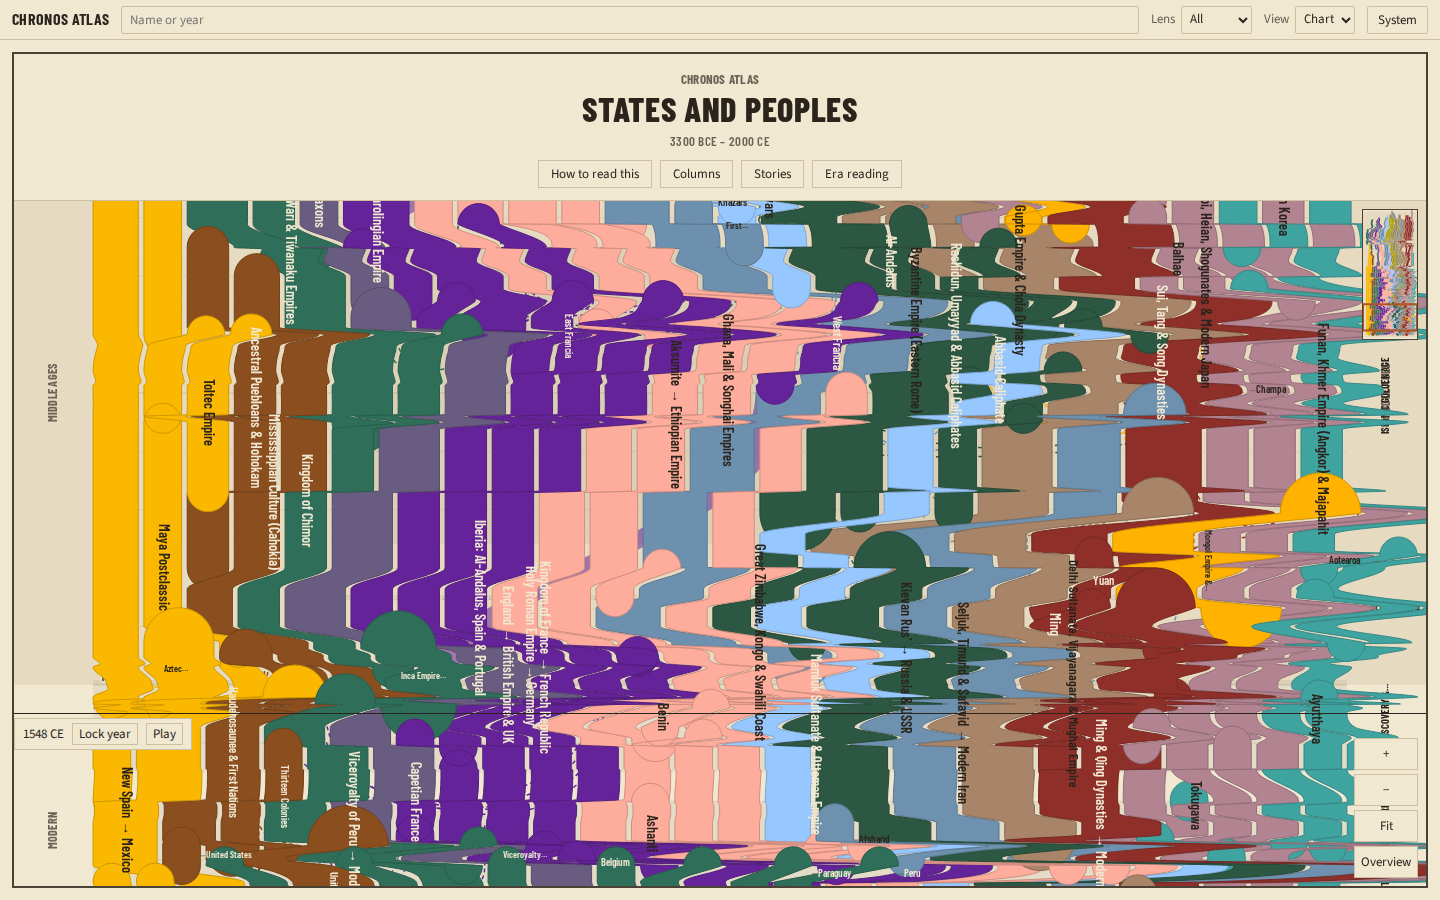
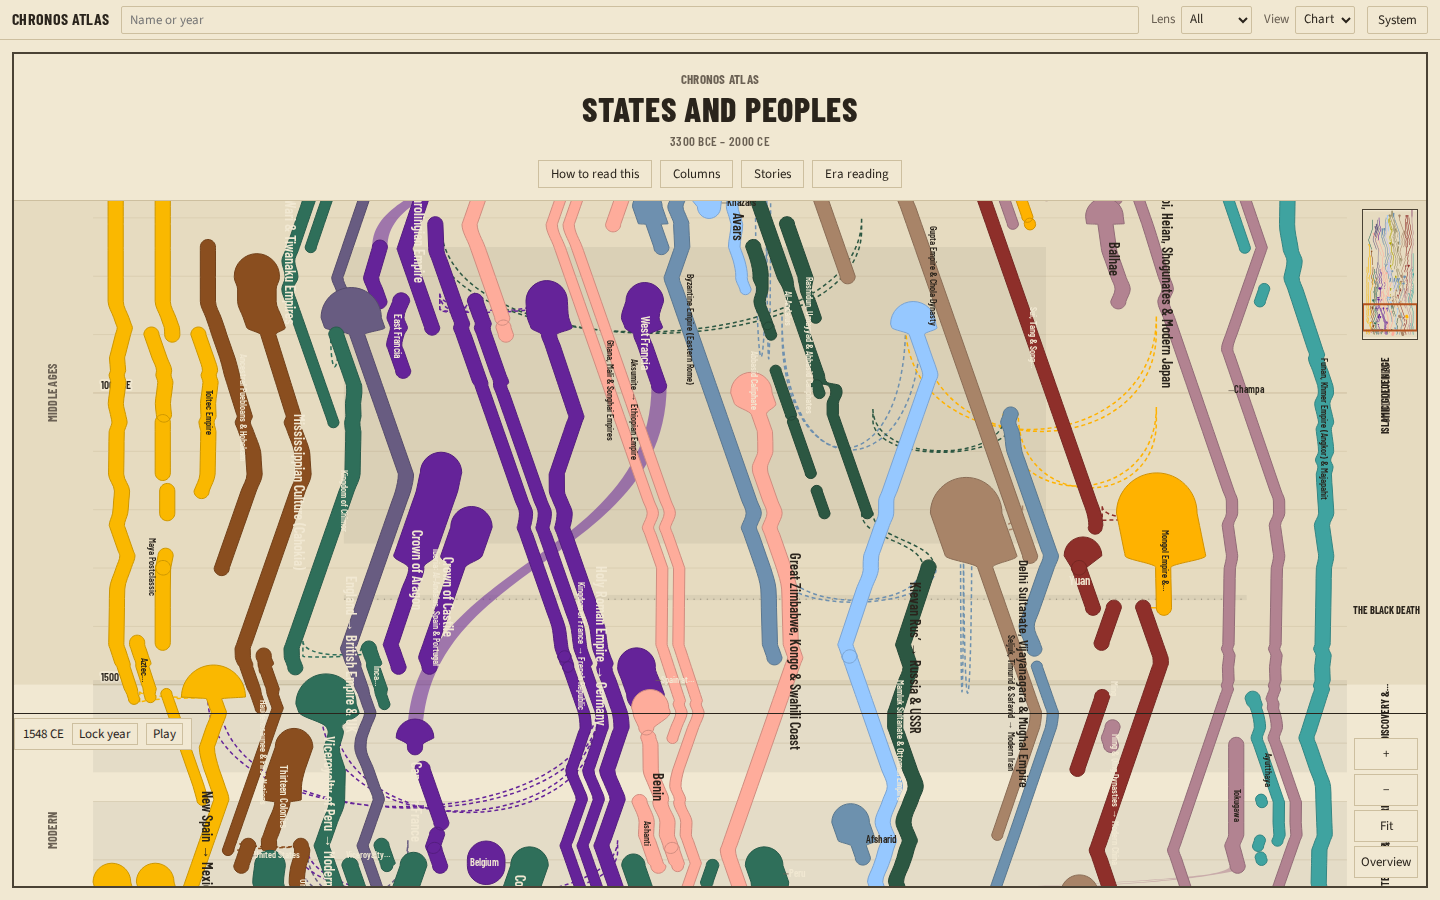
Review: score the layout pass at 5 of 10

diff --git a/docs/reviews/layout-pass.md b/docs/reviews/layout-pass.md
@@ -1,0 +1,41 @@
+# Layout pass — Appendix D
+
+Scored on 2026-10-26 from the poster on `v2/p5-interactions` at `fd85844`, after the Egypt step, the Roman split, the Castile–Aragon merge, and the modern spare-width seating. Layout numbers are `docs/reports/layout-latest.json` (warm 149 ms, overlaps 0, label hits 0, max drift 4.193). The half-em measurer is what `layout()` uses in Node. The painted sheet uses canvas text metrics, so a few names that fit in Node stay off the paper. Screenshots: `docs/shots/p3/`, retaken after `fd85844`. M1, M2, M3, and M4 stay 5/11.
+
+Item 7 needs shipped images. It is deferred until P4, and it is not a fail. Painted callout plates and their leaders are deferred until P4 as well. They do not, by themselves, fail item 8. Labels still score. With item 7 out of the denominator, 10 items remain. The 70% bar is 8 of those 10.
+
+**5 pass, 3 partial, 2 fail, 1 deferred. 5/10 of the remaining items.** A partial is not a pass. Do not start P4. Do not start P6.
+
+| #   | Checklist                                                       | Score    | Evidence                                                                                                                                                                                                                                                                                                                                                                                                                                                                                                                                                                                                                                                                                                                                                                                 |
+| --- | --------------------------------------------------------------- | -------- | ---------------------------------------------------------------------------------------------------------------------------------------------------------------------------------------------------------------------------------------------------------------------------------------------------------------------------------------------------------------------------------------------------------------------------------------------------------------------------------------------------------------------------------------------------------------------------------------------------------------------------------------------------------------------------------------------------------------------------------------------------------------------------------------- |
+| 1   | Whole timeline legible as one field; overview shows 5,300 years | partial  | Fit-to-width still scrolls. Overview fits the sheet into the port (`docs/shots/p3/desktop-overview.png`). The overview stage is about 300×700 px on a 1440×900 window. Axis height is about 3501 px, so a 10 px label is about 2 px there.                                                                                                                                                                                                                                                                                                                                                                                                                                                                                                                                               |
+| 2   | Rivers fork, merge, and drift                                   | partial  | `western_roman_empire` and `eastern_roman_empire` are both drawn, west at x 418 and east at x 757, and `split_roman_empire_eastern_roman_empire_western_roman_empire` routes. On the painted sheet the east name is "Eastern…" and the west ribbon has no painted name. `desktop-classical.png` is aimed at 100 CE, so the fork sits at the bottom of that frame. Crown of Aragon and Crown of Castile keep their full names and meet "Spain at…"; `merge_aragon_castile_spain_union` routes (`docs/shots/p3/desktop-medieval.png`). The Carolingian split still routes. The Egypt step is 0.22 px across 0.62 px of y (slope 0.35). `maxRibbonDrift` is 4.193 on `umayyad_abbasid`: 13 px of x across 3.1 px of y. That is the steepest step. The chart is not held to a slope of 0.35. |
+| 3   | ≥ 60 labeled states at the bottom edge                          | fail     | 119 polities meet 1900–2000. The half-em layout fits 53 of them. The painted sheet shows 52 of those names, 38 of them complete. India, Pakistan, North Korea, and South Korea are complete on `docs/shots/p3/desktop-modern.png`. 52 and 53 are both under 60.                                                                                                                                                                                                                                                                                                                                                                                                                                                                                                                          |
+| 4   | Width encodes prominence; not a capsule block                   | pass     | Importance 3 is 74/74 fitted in the layout report and still wider than the importance-2 floor. `docs/shots/p3/desktop-modern.png` shows rivers of different widths.                                                                                                                                                                                                                                                                                                                                                                                                                                                                                                                                                                                                                      |
+| 5   | Lineage color, distinguishable neighbors, CVD                   | pass     | `npm run palette:check` exits 0 for 18 families, including deuteranopia, protanopia, and tritanopia. Neighbors on `desktop-medieval.png` keep separate hues.                                                                                                                                                                                                                                                                                                                                                                                                                                                                                                                                                                                                                             |
+| 6   | Six era bands and ≥ 12 cross-cutting bands, behind the ribbons  | partial  | Six era bands paint in both gutters. Cross-cutting bands are the same 11, behind the ribbons. A twelfth band is not invented.                                                                                                                                                                                                                                                                                                                                                                                                                                                                                                                                                                                                                                                            |
+| 7   | ≥ 30 images at default zoom                                     | deferred | Shipped images and plates are P4. `media` is empty. Downloads stay off. This row is out of the denominator.                                                                                                                                                                                                                                                                                                                                                                                                                                                                                                                                                                                                                                                                              |
+| 8   | Labels never clipped; floors met; callouts have leaders         | fail     | Fitted ink hits in the half-em layout are 0. The painted sheet still ellipsizes 33 names, including "Eastern…", "Spain at…", "United…", and "Republic of…". Eleven drawn ribbons have no painted name, including `western_roman_empire`, `austria_hungary`, `british_raj`, `carolingian`, and `modern_africa`. India, Pakistan, North Korea, and South Korea are full. The layout places 40 callouts, marks 10, and drops 8. Painted plates and leaders are deferred to P4 and are not the reason this row fails.                                                                                                                                                                                                                                                                        |
+| 9   | Chrome ≤ 12% at rest; dossier, map, and snapshot closed         | pass     | The top bar is 40 px, 10% of a 390 px viewport and 4% of 900 px (`chromeShare`). At rest the dossier, snapshot, stories, columns, and era list are closed. Checked on `docs/shots/p3/desktop-overview.png`.                                                                                                                                                                                                                                                                                                                                                                                                                                                                                                                                                                              |
+| 10  | Parchment, not a dashboard                                      | pass     | Default theme is the parchment sheet and the slim bar. Checked on `docs/shots/p3/desktop-medieval.png`.                                                                                                                                                                                                                                                                                                                                                                                                                                                                                                                                                                                                                                                                                  |
+| 11  | No poster artwork or text copied                                | pass     | The poster file is absent (Q-01). The title is "States and peoples". The reading key uses our wording.                                                                                                                                                                                                                                                                                                                                                                                                                                                                                                                                                                                                                                                                                   |
+
+## What changed since M4
+
+`07cb451` carries each centerline down the chart. `egypt_late_to_ptolemaic` moves 0.22 px across 0.62 px of y. A clamp of every packed step to `MAX_DRIFT` stayed unshipped: it had left 246 overlaps forward and 257 backward.
+
+`4ba3029` ends `roman_empire` in 395 and draws the western and eastern ribbons through 476. Aragon and Castile meet `spain_union`. The split and the merge come from `EXPLICIT_FORKS`. The lane solver places them.
+
+`fd85844` spends spare width on slices that reach 1900 and seats culled states in the gaps. Centers stay put. Importance 3 is not narrowed. Each slice picks its own shrink. India, Pakistan, North Korea, and South Korea paint their full names. Fitted modern labels in the half-em layout rise from 31 to 53. The painted count is 52.
+
+## Fix list
+
+- Item 2 stays partial while the west ribbon has no painted name, the east name is "Eastern…", and the steepest step is 4.193 on `umayyad_abbasid`.
+- Item 3 stays a fail at 53 half-em fits and 52 painted names. The bar is 60.
+- Item 8 stays a fail while 33 painted names are ellipsized and 11 drawn ribbons have no painted name.
+- A twelfth cross-cutting band needs a real sourced event.
+- Images and painted callout plates stay P4.
+
+## Decision
+
+5 of the 10 scored items pass. That is under 8. Stay blocked on this chart. Do not merge `v2/p5-interactions` into `v2/main`. Do not open P4. Do not open P6. P8 stays off.

diff --git a/docs/CONTEXT.md b/docs/CONTEXT.md
@@ -1,6 +1,6 @@
 # Context
 
-Resume here. After the P3 merge, work continues on `v2/p5-interactions`, cut from `v2/main`. Last done task is in `docs/PROGRESS.md`. The poster is the only chart. `src/layout` is the pure layout engine. Do not start P8. Do not start P4.
+Resume here. `v2/p5-interactions` holds the interaction work and the layout pass. `v2/main` was not moved. Last done task is in `docs/PROGRESS.md`. The poster is the only chart. `src/layout` is the pure layout engine. Do not start P8. Do not start P4. Do not start P6.
 
 ## Architecture
 
@@ -20,4 +20,4 @@ Poster and both Gemini PDFs are missing (Q-01). Gemini bibliography [1]–[37] w
 
 ## Next
 
-Layout tuning on branch `v2/p5-interactions`. M4 is 5/11 (45%) in `docs/reviews/M4.md`. M1, M2, and M3 stay 5/11. Fitted names are one straight column, or one horizontal line, pinned to the ribbon. Fork endpoints can replace an equal-or-lower unprotected ribbon, so East Francia and West Francia are drawn and the Carolingian split routes. Fitted ink hits are 0. Four names stay hover-only, and 19 fitted names are still short or ellipsized, so item 8 stays a fail. The next lever is the centerline kink. `egypt_late_to_ptolemaic` jumps 184px across 0.62px of y, and `maxRibbonDrift` is 296.774. Clamping packed steps to `MAX_DRIFT` left 246 overlaps forward and 257 backward, and was not kept. India, Pakistan, and both Koreas still do not fit. Do not invent a Western or Eastern Roman polity, and do not invent a merge. T5.20 is `a1521fc`. The straight-column pin is `71f4ea2`. T5.99, the phase gate, waits for an honest score of at least 8/11. Do not open P6. `npm run axe` is clean for serious and critical violations. Custom milestones are dashed outlines stored locally, at most 12. On a phone the dossier and the era list are bottom sheets, and a two-finger pinch changes the scale. Keyboard order runs down the poster, then across. Table view lists the same polities, sorted and filtered. Stories plays the three migrated tours and a stop moves the camera. The five migrated presets replace fold and pin, and a named compare stores the current columns. Fold hides a column and pin isolates the rest; the ribbons move for 300 ms. Trade arcs are dashed hairlines and thicken on hover. A lens already reveals its arcs and dims the rest of the chart. Time-lapse stays off when reduced motion is requested. The year snapshot stays closed until the crosshair is locked. The dossier can load an optional Wikipedia extract after a click, and it stays closed until a ribbon is chosen. It has no image slot filled, because no media is attached. M1 is 5/11 passes (45%) in `docs/reviews/M1.md`. Do not start P4. Do not start P6 until a later Appendix D rescore is at least 70%. Do not start P8. The early bin is 38/35. Tag `v2-p2-done` is the merge `390baa7`. Tag `v2-p3-done` is the merge `09a5f75`.
+The layout pass is `docs/reviews/layout-pass.md`. Item 7, shipped images, is deferred until P4 and is out of the denominator. Painted callout plates are deferred until P4 and do not fail item 8 by themselves. Ten items remain, and the bar is 8 of those 10. The score is 5 pass, 3 partial, 2 fail. That is 5/10. M1, M2, M3, and M4 stay 5/11. `roman_empire` ends in 395. `western_roman_empire` and `eastern_roman_empire` run 395–476, west at x 418 and east at x 757. Aragon and Castile meet `spain_union`, and `merge_aragon_castile_spain_union` routes. The Egypt step is 0.22px across 0.62px of y. `maxRibbonDrift` is 4.193 on `umayyad_abbasid` (13px across 3.1px of y). The chart is not held to a slope of 0.35. A clamp of packed steps to `MAX_DRIFT` stayed unshipped. India, Pakistan, North Korea, and South Korea paint their full names. Modern labels are 53 of 119 in the half-em layout and 52 painted on the sheet, under the bar of 60. The painted sheet ellipsizes 33 names, and 11 drawn ribbons have no painted name, including the western Roman ribbon. Item 2 stays partial. Item 3 and item 8 stay fails. P4 and P6 stay closed. `v2/main` is not merged. T5.99 on this branch: `npm run check` green, `npm run shots` 3 passed, `npm run perf` p95 16.80 ms, `npm run axe` 24 passed with no serious or critical violation. Tag `v2-p5-done` points at this branch. The straight-column pin is `71f4ea2`. The spare-width seating is `fd85844`. T5.20 is `a1521fc`. `npm run axe` is clean for serious and critical violations. Custom milestones are dashed outlines stored locally, at most 12. On a phone the dossier and the era list are bottom sheets, and a two-finger pinch changes the scale. Keyboard order runs down the poster, then across. Table view lists the same polities, sorted and filtered. Stories plays the three migrated tours and a stop moves the camera. The five migrated presets replace fold and pin, and a named compare stores the current columns. Fold hides a column and pin isolates the rest; the ribbons move for 300 ms. Trade arcs are dashed hairlines and thicken on hover. A lens already reveals its arcs and dims the rest of the chart. Time-lapse stays off when reduced motion is requested. The year snapshot stays closed until the crosshair is locked. The dossier can load an optional Wikipedia extract after a click, and it stays closed until a ribbon is chosen. It has no image slot filled, because no media is attached. M1 is 5/11 in `docs/reviews/M1.md`. The later rescore is `docs/reviews/layout-pass.md`, 5 of 10 scored items. Do not start P4. Do not start P6 until a later Appendix D rescore passes at least 8 of the items that remain after deferred image and plate rows are out of the denominator. Do not start P8. The early bin is 38/35. Tag `v2-p2-done` is the merge `390baa7`. Tag `v2-p3-done` is the merge `09a5f75`.

diff --git a/docs/PROGRESS.md b/docs/PROGRESS.md
@@ -113,6 +113,18 @@
 
 2026-10-26 — Fork endpoints can replace an equal-importance ribbon. The Carolingian split routes. `npm run layout:report` label hits 0, warm 123 ms, max drift 296.774, gates pass. `docs/reviews/M4.md` is 5/11. A `MAX_DRIFT` clamp on packed steps left 246 overlaps and was not kept. P4 and P6 stay closed.
 
+2026-10-26 — `easeCenterlines` carries center and width. `egypt_late_to_ptolemaic` moves 0.22px across 0.62px of y (`07cb451`). `npm run layout:report` gates pass.
+
+2026-10-26 — Rome ends in 395 and splits into western and eastern ribbons. Aragon and Castile merge into `spain_union` (`4ba3029`). `npm run layout:report` overlaps 0, label hits 0, importance 3 fit 74/74, warm 136 ms, max drift 4.193. Gates pass.
+
+2026-10-26 — Modern slices spend spare width in place (`fd85844`). India, Pakistan, North Korea, and South Korea keep their full names. Half-em modern fits rise from 31 to 53. `npm run layout:report` overlaps 0, label hits 0, importance 3 fit 74/74, warm 149 ms, max drift 4.193. Gates pass.
+
 ## Blocked
 
-None.
+2026-10-26 — Layout pass. `docs/reviews/layout-pass.md` scores Appendix D after `fd85844`. Item 7 (shipped images) is deferred to P4 and is out of the denominator. Painted callout plates are deferred to P4 and do not fail item 8 by themselves. Ten items remain. The bar is 8 passes. The score is 5 pass, 3 partial, 2 fail.
+
+Fails: item 3, modern edge, 53 half-em fits and 52 painted names, both under 60 (`docs/shots/p3/desktop-modern.png`, `docs/reports/layout-latest.json`). Item 8, labels, 33 painted ellipses and 11 drawn ribbons with no painted name, including `western_roman_empire` (`docs/shots/p3/desktop-classical.png`).
+
+Partials: item 1, overview labels about 2px (`docs/shots/p3/desktop-overview.png`). Item 2, both Roman ribbons and the Castile–Aragon merge are drawn, and the Egypt step is 0.22px, while the west ribbon has no painted name and `maxRibbonDrift` is 4.193 on `umayyad_abbasid` (13px across 3.1px of y). Item 6, six era bands and 11 cross-cutting bands.
+
+`npm run check` green. `npm run shots` 3 passed. `npm run perf` p95 16.80 ms, worst 66.70 ms. `npm run axe` 24 passed, no serious or critical violation. Tag `v2-p5-done` is on `v2/p5-interactions`. `v2/main` was not merged. P4 and P6 stay closed.

diff --git a/docs/DECISIONS.md b/docs/DECISIONS.md
@@ -741,3 +741,13 @@ Alternatives: Solve the modern slices with compressed weights. That seated more 
 Why: Item 3 asks for about 60 readable states on the modern edge, including India, Pakistan, and both Koreas. The names have to stay full, and the rivers have to stay where the solver put them.
 
 Reversible? y
+
+## 2026-10-26 — The layout pass is 5 of 10
+
+Decision: `docs/reviews/layout-pass.md` scores Appendix D on `fd85844`. Shipped images are deferred to P4 and leave the denominator. Painted callout plates are deferred to P4 and do not fail the label row by themselves. Ten items remain. Five pass, three are partial, two fail. The bar is 8. `v2/p5-interactions` is not merged into `v2/main`. The interaction gate still runs: `npm run check`, `npm run shots` (3 passed), `npm run perf` (p95 16.80 ms), and `npm run axe` (24 passed, no serious or critical violation). Tag `v2-p5-done` records that gate on this branch. P4 and P6 stay closed.
+
+Alternatives: Count the Roman split as a pass while its west ribbon has no painted name. Count 53 modern fits as the required 60. Open P6 at 5/10.
+
+Why: The three layout commits changed the chart, and the rescore has to say what the shots show. The phase gate can be tagged when its commands are green. The poster merge waits for 8 of the 10 scored items.
+
+Reversible? y
